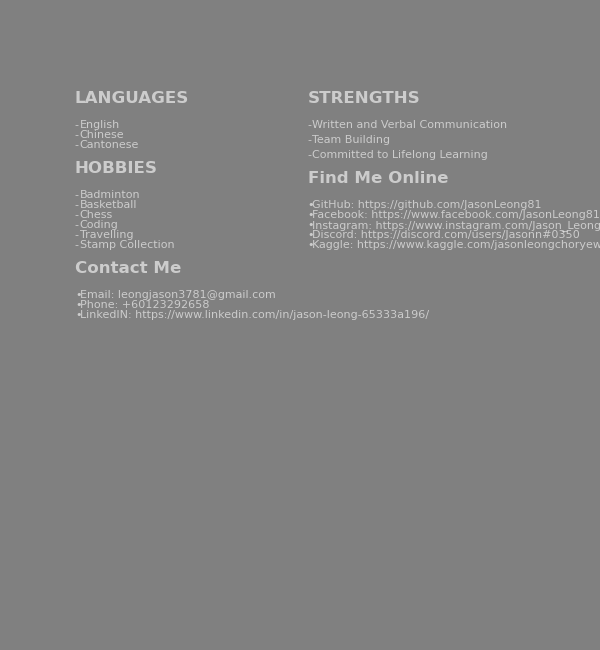
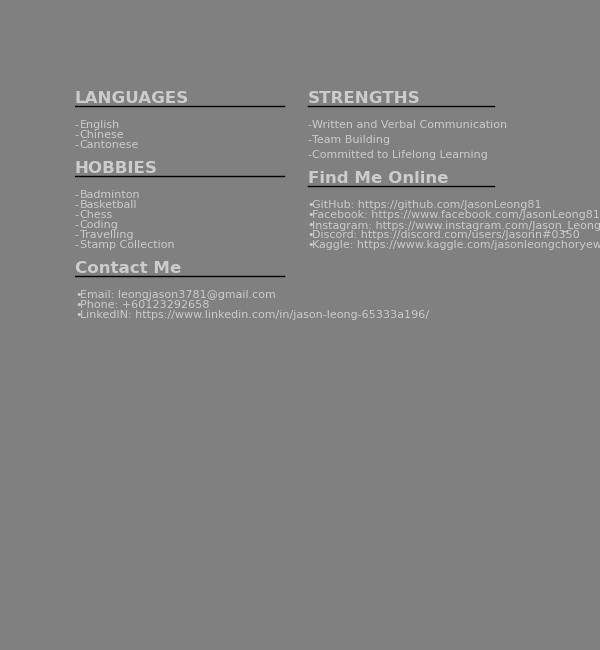
m

diff --git a/Matplotlib/Resume/resume_page1.py b/Matplotlib/Resume/resume_page1.py
@@ -7,7 +7,7 @@ fig, ax = plt.subplots(nrows=1, ncols=1)
 fig.patch.set_facecolor('#808080')
 ax.set_facecolor('black')
 
-Name = 'JASON LEONG'
+Name = 'JASON LEONG Chor Yew'
 My_Role = 'Student in Cognitive Science and Artificial Intelligence'
 
 Experience_title = 'EXPERIENCE'
@@ -58,6 +58,10 @@ Extra_Title = 'Find Me Online'
 Extra_ID = ['GitHub: ','Facebook: ','Instagram: ','Discord: ','Kaggle: ']
 Extra = ['https://github.com/JasonLeong81','https://www.facebook.com/JasonLeong81/','https://www.instagram.com/Jason_Leong_81/','https://discord.com/users/Jasonn#0350','https://www.kaggle.com/jasonleongchoryew']
 
+x_line_width_right_min = 0.5
+x_line_width_right_max = 0.9
+x_line_width_left_min = 0
+x_line_width_left_max = 0.45
 
 ### Begin Coding :) ####################################################################################################
 
@@ -75,8 +79,10 @@ def resume_page_1():
 
     plt.annotate(Experience_title , (0,0.80), weight='bold', fontsize=12, alpha=.6,color='white')
 
+    plt.axhline(y=.795, xmin=x_line_width_left_min, xmax=x_line_width_left_max, color='black', linewidth=1)
+
     plt.annotate(Job_3_position , (0,0.75), weight='regular', fontsize=10, alpha=.6,color='white')
-    plt.annotate(Job_3_company_name , (0,0.73), weight='regular', fontsize=8, alpha=.6,color='white')
+    plt.annotate(Job_3_company_name , (0,0.73), weight='regular', fontsize=8, alpha=.6,color='blue')
     plt.annotate(Job_3_duration , (0,0.71), weight='regular', fontsize=8, alpha=.6,color='white')
     plt.annotate('-' , (0,0.69), weight='regular', fontsize=8, alpha=.6,color='white')
     plt.annotate(Job_3_responsibilities[0][0] , (0.01,0.69), weight='regular', fontsize=8, alpha=.6,color='white')
@@ -88,7 +94,7 @@ def resume_page_1():
     plt.annotate(Job_3_responsibilities[2][0] , (0.01,0.61), weight='regular', fontsize=8, alpha=.6,color='white')
 
     plt.annotate(Job_1_position , (0,0.56), weight='regular', fontsize=10, alpha=.6,color='white')
-    plt.annotate(Job_1_company_name , (0,0.54), weight='regular', fontsize=8, alpha=.6,color='white')
+    plt.annotate(Job_1_company_name , (0,0.54), weight='regular', fontsize=8, alpha=.6,color='blue')
     plt.annotate(Job_1_duration , (0,0.52), weight='regular', fontsize=8, alpha=.6,color='white')
     plt.annotate('-' , (0,0.50), weight='regular', fontsize=8, alpha=.6,color='white')
     plt.annotate(Job_1_responsibilities[0][0] , (0.01,0.50), weight='regular', fontsize=8, alpha=.6,color='white')
@@ -103,7 +109,7 @@ def resume_page_1():
     plt.annotate(Job_1_responsibilities[3][1], (0.01, 0.38), weight='regular', fontsize=8, alpha=.6, color='white')
 
     plt.annotate(Job_2_position , (0,0.33), weight='regular', fontsize=10, alpha=.6,color='white')
-    plt.annotate(Job_2_company_name , (0,0.31), weight='regular', fontsize=8, alpha=.6,color='white')
+    plt.annotate(Job_2_company_name , (0,0.31), weight='regular', fontsize=8, alpha=.6,color='blue')
     plt.annotate(Job_2_duration , (0,0.29), weight='regular', fontsize=8, alpha=.6,color='white')
     plt.annotate('-' , (0,0.27), weight='regular', fontsize=8, alpha=.6,color='white')
     plt.annotate(Job_2_responsibilities[0] , (0.01,0.27), weight='regular', fontsize=8, alpha=.6,color='white')
@@ -115,8 +121,11 @@ def resume_page_1():
     # Education
 
     plt.annotate(Education_Title, (0.5,0.80), weight='bold', fontsize=12, alpha=.6,color='white')
+
+    plt.axhline(y=.795, xmin=x_line_width_right_min, xmax=x_line_width_right_max, color='black', linewidth=1)
+
     plt.annotate(Education[0], (0.5,0.75), weight='regular', fontsize=10, alpha=.6,color='white')
-    plt.annotate(University[0] , (0.5,0.73), weight='regular', fontsize=8, alpha=.6,color='white')
+    plt.annotate(University[0] , (0.5,0.73), weight='regular', fontsize=8, alpha=.6,color='blue')
     plt.annotate(Education_Duration[0] , (0.5,0.71), weight='regular', fontsize=8, alpha=.6,color='white')
     plt.annotate('- ' , (0.5,0.69), weight='regular', fontsize=8, alpha=.6,color='white')
     plt.annotate(E_Description[0] , (0.51,0.69), weight='regular', fontsize=8, alpha=.6,color='white')
@@ -126,6 +135,9 @@ def resume_page_1():
     # Achivement
 
     plt.annotate(Achivement_Title , (0.5,0.62), weight='bold', fontsize=12, alpha=.6,color='white')
+
+    plt.axhline(y=.615, xmin=x_line_width_right_min, xmax=x_line_width_right_max, color='black', linewidth=1)
+
     plt.annotate(Achivements[0] , (0.5,0.57), weight='regular', fontsize=10, alpha=.6,color='white')
     plt.annotate("- " , (0.5,0.55), weight='regular', fontsize=12, alpha=.6,color='white')
     plt.annotate(A_Description[0][0] , (0.51,0.55), weight='regular', fontsize=8, alpha=.6,color='white')
@@ -138,8 +150,10 @@ def resume_page_1():
 
     plt.annotate(Projects_Title , (0.5,0.44), weight='bold', fontsize=12, alpha=.6,color='white')
 
+    plt.axhline(y=.430, xmin=x_line_width_right_min, xmax=x_line_width_right_max, color='black', linewidth=1)
+
     plt.annotate(Project_Names[0] , (0.5,0.39), weight='bold', fontsize=10, alpha=.6,color='white')
-    plt.annotate(Project_Links[0] , (0.5,0.37), weight='regular', fontsize=8, alpha=.6,color='white')
+    plt.annotate(Project_Links[0] , (0.5,0.37), weight='regular', fontsize=8, alpha=.6,color='blue')
     plt.annotate( '-', (0.5,0.35), weight='regular', fontsize=8, alpha=.6,color='white')
     plt.annotate(Project_Descriptions[0][0] , (0.51,0.35), weight='regular', fontsize=8, alpha=.6,color='white')
     plt.annotate('-' , (0.5,0.33), weight='regular', fontsize=8, alpha=.6,color='white')
@@ -148,7 +162,7 @@ def resume_page_1():
     plt.annotate(Project_Descriptions[0][2] , (0.51,0.31), weight='regular', fontsize=8, alpha=.6,color='white')
 
     plt.annotate(Project_Names[1] , (0.5,0.26), weight='bold', fontsize=10, alpha=.6,color='white')
-    plt.annotate(Project_Links[1] , (0.5,0.24), weight='regular', fontsize=8, alpha=.6,color='white')
+    plt.annotate(Project_Links[1] , (0.5,0.24), weight='regular', fontsize=8, alpha=.6,color='blue')
     plt.annotate( '-', (0.5,0.22), weight='regular', fontsize=8, alpha=.6,color='white')
     plt.annotate(Project_Descriptions[1][0][0] , (0.51,0.22), weight='regular', fontsize=8, alpha=.6,color='white')
     plt.annotate(Project_Descriptions[1][0][1], (0.51, 0.20), weight='regular', fontsize=8, alpha=.6, color='white')
@@ -160,7 +174,7 @@ def resume_page_1():
 
 
     plt.annotate(Project_Names[2] , (0.5,0.09), weight='bold', fontsize=10, alpha=.6,color='white')
-    plt.annotate(Project_Links[2] , (0.5,0.07), weight='regular', fontsize=8, alpha=.6,color='white')
+    plt.annotate(Project_Links[2] , (0.5,0.07), weight='regular', fontsize=8, alpha=.6,color='blue')
     plt.annotate( '-', (0.5,0.05), weight='regular', fontsize=8, alpha=.6,color='white')
     plt.annotate(Project_Descriptions[2][0] , (0.51,0.05), weight='regular', fontsize=8, alpha=.6,color='white')
     plt.annotate('-' , (0.5,0.03), weight='regular', fontsize=8, alpha=.6,color='white')
@@ -169,6 +183,9 @@ def resume_page_1():
     # Skills
 
     plt.annotate(Skills_Title , (0,0.18), weight='bold', fontsize=12, alpha=.6,color='white')
+
+    plt.axhline(y=.175, xmin=x_line_width_left_min, xmax=x_line_width_left_max, color='black', linewidth=1)
+
     c = 0.13
     for i in range(5):
         plt.annotate('- ', (0,c), weight='regular', fontsize=8, alpha=.6,color='white')

diff --git a/Matplotlib/Resume/resume_page2.py b/Matplotlib/Resume/resume_page2.py
@@ -13,6 +13,9 @@ def resume_page_2():
 
     # Languages
     plt.annotate(r1.Languages_Title, (0,0.95), weight='bold', fontsize=12, alpha=.6,color='white')
+
+    plt.axhline(y=.945, xmin=r1.x_line_width_left_min, xmax=r1.x_line_width_left_max, color='black', linewidth=1)
+
     plt.annotate('- ', (0,0.90), weight='regular', fontsize=8, alpha=.6,color='white')
     plt.annotate(r1.Languages[0], (0.01,0.90), weight='regular', fontsize=8, alpha=.6,color='white')
     plt.annotate('- ', (0,0.88), weight='regular', fontsize=8, alpha=.6,color='white')
@@ -22,6 +25,9 @@ def resume_page_2():
 
     # Strengths
     plt.annotate(Strength_Title, (0.5,0.95), weight='bold', fontsize=12, alpha=.6,color='white')
+
+    plt.axhline(y=.945, xmin=r1.x_line_width_right_min, xmax=r1.x_line_width_right_max, color='black', linewidth=1)
+
     plt.annotate('-', (0.5, 0.90), weight='regular', fontsize=8, alpha=.6, color='white')
     plt.annotate(Strengths[0], (0.51, 0.90), weight='regular', fontsize=8, alpha=.6, color='white')
     plt.annotate('-', (0.5, 0.87), weight='regular', fontsize=8, alpha=.6, color='white')
@@ -31,6 +37,9 @@ def resume_page_2():
 
     # Hobbies
     plt.annotate(Hobby_Title, (0,0.81), weight='bold', fontsize=12, alpha=.6,color='white')
+
+    plt.axhline(y=.805, xmin=r1.x_line_width_left_min, xmax=r1.x_line_width_left_max, color='black', linewidth=1)
+
     plt.annotate('- ', (0, 0.76), weight='regular', fontsize=8, alpha=.6, color='white')
     plt.annotate(Hobbies[0], (0.01,0.76), weight='regular', fontsize=8, alpha=.6,color='white')
     plt.annotate('- ', (0, 0.74), weight='regular', fontsize=8, alpha=.6, color='white')
@@ -46,6 +55,9 @@ def resume_page_2():
 
     # Extra
     plt.annotate(r1.Extra_Title, (0.5,0.79), weight='bold', fontsize=12, alpha=.6,color='white')
+
+    plt.axhline(y=.785, xmin=r1.x_line_width_right_min, xmax=r1.x_line_width_right_max, color='black', linewidth=1)
+
     plt.annotate(u'\u2022', (0.5,0.74), weight='regular', fontsize=8, alpha=.6,color='white')
     plt.annotate(r1.Extra_ID[0] + r1.Extra[0], (0.51,0.74), weight='regular', fontsize=8, alpha=.6,color='white')
     plt.annotate(u'\u2022', (0.5,0.72), weight='regular', fontsize=8, alpha=.6,color='white')
@@ -59,6 +71,9 @@ def resume_page_2():
 
     # Contacts
     plt.annotate(r1.Contact_Title, (0,0.61), weight='bold', fontsize=12, alpha=.6,color='white')
+
+    plt.axhline(y=.605, xmin=r1.x_line_width_left_min, xmax=r1.x_line_width_left_max, color='black', linewidth=1)
+
     plt.annotate(u'\u2022', (0,0.56), weight='regular', fontsize=8, alpha=.6,color='white')
     plt.annotate(r1.Contact_ID[0] + r1.Contact[0], (0.01,0.56), weight='regular', fontsize=8, alpha=.6,color='white')
     plt.annotate(u'\u2022', (0, 0.54), weight='regular', fontsize=8, alpha=.6, color='white')

diff --git a/Matplotlib/Resume/test.py b/Matplotlib/Resume/test.py
@@ -3,16 +3,20 @@ from matplotlib import pylab as plt
 from matplotlib.offsetbox import TextArea, DrawingArea, OffsetImage, AnnotationBbox
 import matplotlib.image as mpimg
 fig,ax = plt.subplots()
-arr_code = mpimg.imread('rtest.jpg')
-imagebox = OffsetImage(arr_code)
-ab = AnnotationBbox(imagebox, (0.84, 0.2)) # middle of picture
-ax.add_artist(ab)
+# arr_code = mpimg.imread('rtest.jpg')
+# imagebox = OffsetImage(arr_code)
+# ab = AnnotationBbox(imagebox, (0.84, 0.2)) # middle of picture
+# ax.add_artist(ab)
 fig.set_facecolor('grey')
 ax.set_facecolor('grey')
 # plt.savefig('resumeexample.png', dpi=300, bbox_inches='tight')
-# plt.show()
+# plt.axhline(x=.99, color='purple', alpha=0.5, linewidth=2) # beware of the parameters
+plt.axhline(y=.88, xmin=0, xmax=1, color='black', linewidth=1)
+plt.axis('off')
+plt.show()
 
 # In digital signal processing, spatial anti-aliasing is a technique for minimizing the distortion artifacts known as aliasing when representing a high-resolution image at a lower resolution.
+
 
 
 
